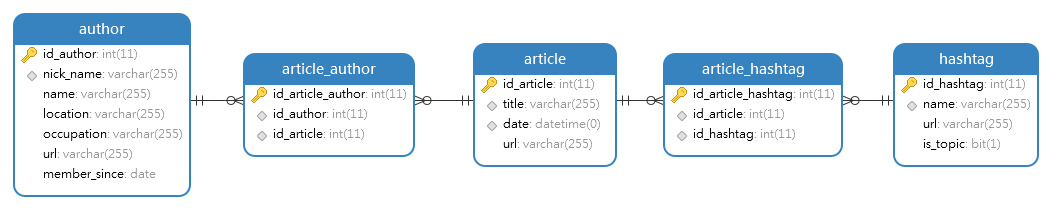
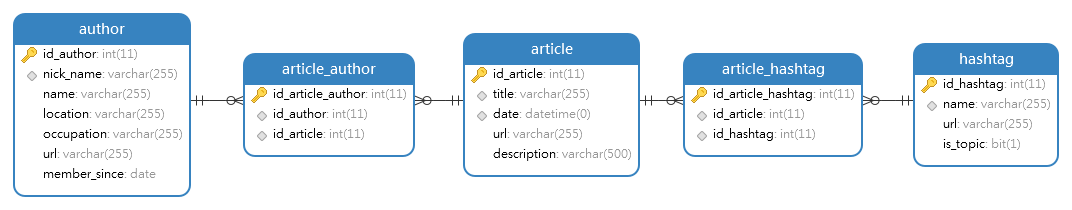
'description' attribute added to the DB design. Save 'description' added

diff --git a/database/mysql_connection.py b/database/mysql_connection.py
@@ -56,11 +56,12 @@ class MySqlConnection:
                                           '%B %d, %Y %I:%M %p')
         formatted_date = ' '.join([str(date_time_obj.date()),
                                    str(date_time_obj.time())])
-        sql_header = 'INSERT INTO article (title, date, url) '
+        sql_header = 'INSERT INTO article (title, date, url, description) '
         sql_values = f'VALUES ("{story.title}", "{formatted_date}", ' \
-                     f'"{story.url}") '
-        sql_duplicate = 'ON DUPLICATE KEY UPDATE date = "{}", url = "{}"' \
-            .format(formatted_date, story.url)
+                     f'"{story.url}", "{story.description}") '
+        sql_duplicate = 'ON DUPLICATE KEY UPDATE date = "{}", url = "{}", ' \
+                        'description = "{}"' \
+            .format(formatted_date, story.url, story.description)
         cursor.execute(sql_header + sql_values + sql_duplicate)
         MySqlConnection.connection.commit()
         row_id = cursor.lastrowid
